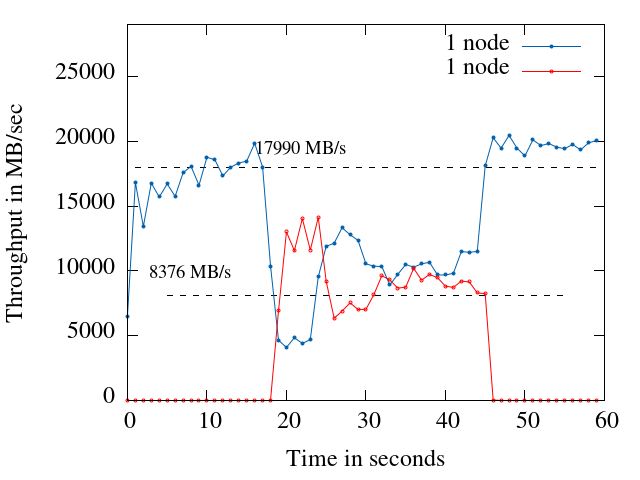
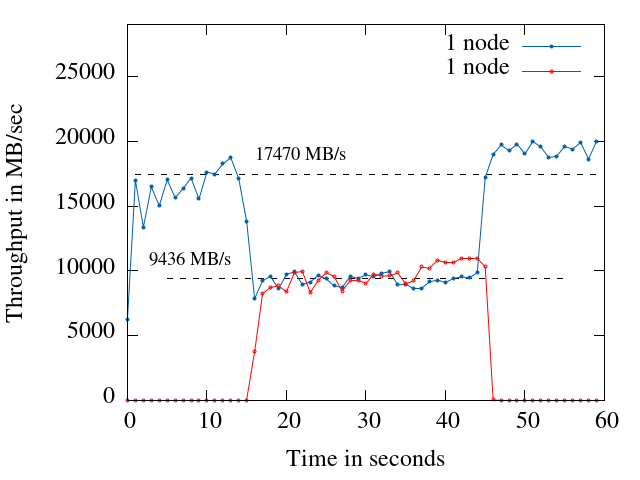
rule lustre

diff --git a/src/fair_queue.cpp b/src/fair_queue.cpp
@@ -424,13 +424,14 @@ bool FairQueue::getMessage(IO_CMD_MSG *msg) {
     // //std::cout << "hi" << std::endl;
     MessageQueue *q = nonempty_queues[queue_idx];
     double proportion = 1.0;//max_rate / total_rate;
+    double curr_time = getTime();
     //std::cout << proportion << std::endl;
-    if(getTime() - q->prev_time < new_deadline*1000000) 
+    if(curr_time - q->prev_time < new_deadline*1000000) 
         return false;
 
 	q->remove(msg);
 	message_count--;
-    q->prev_time = getTime();
+    q->prev_time += new_deadline*1000000;
 	
 	if (q->messages.empty()) {
 		// mark this queue idle and move it off the nonempty list
